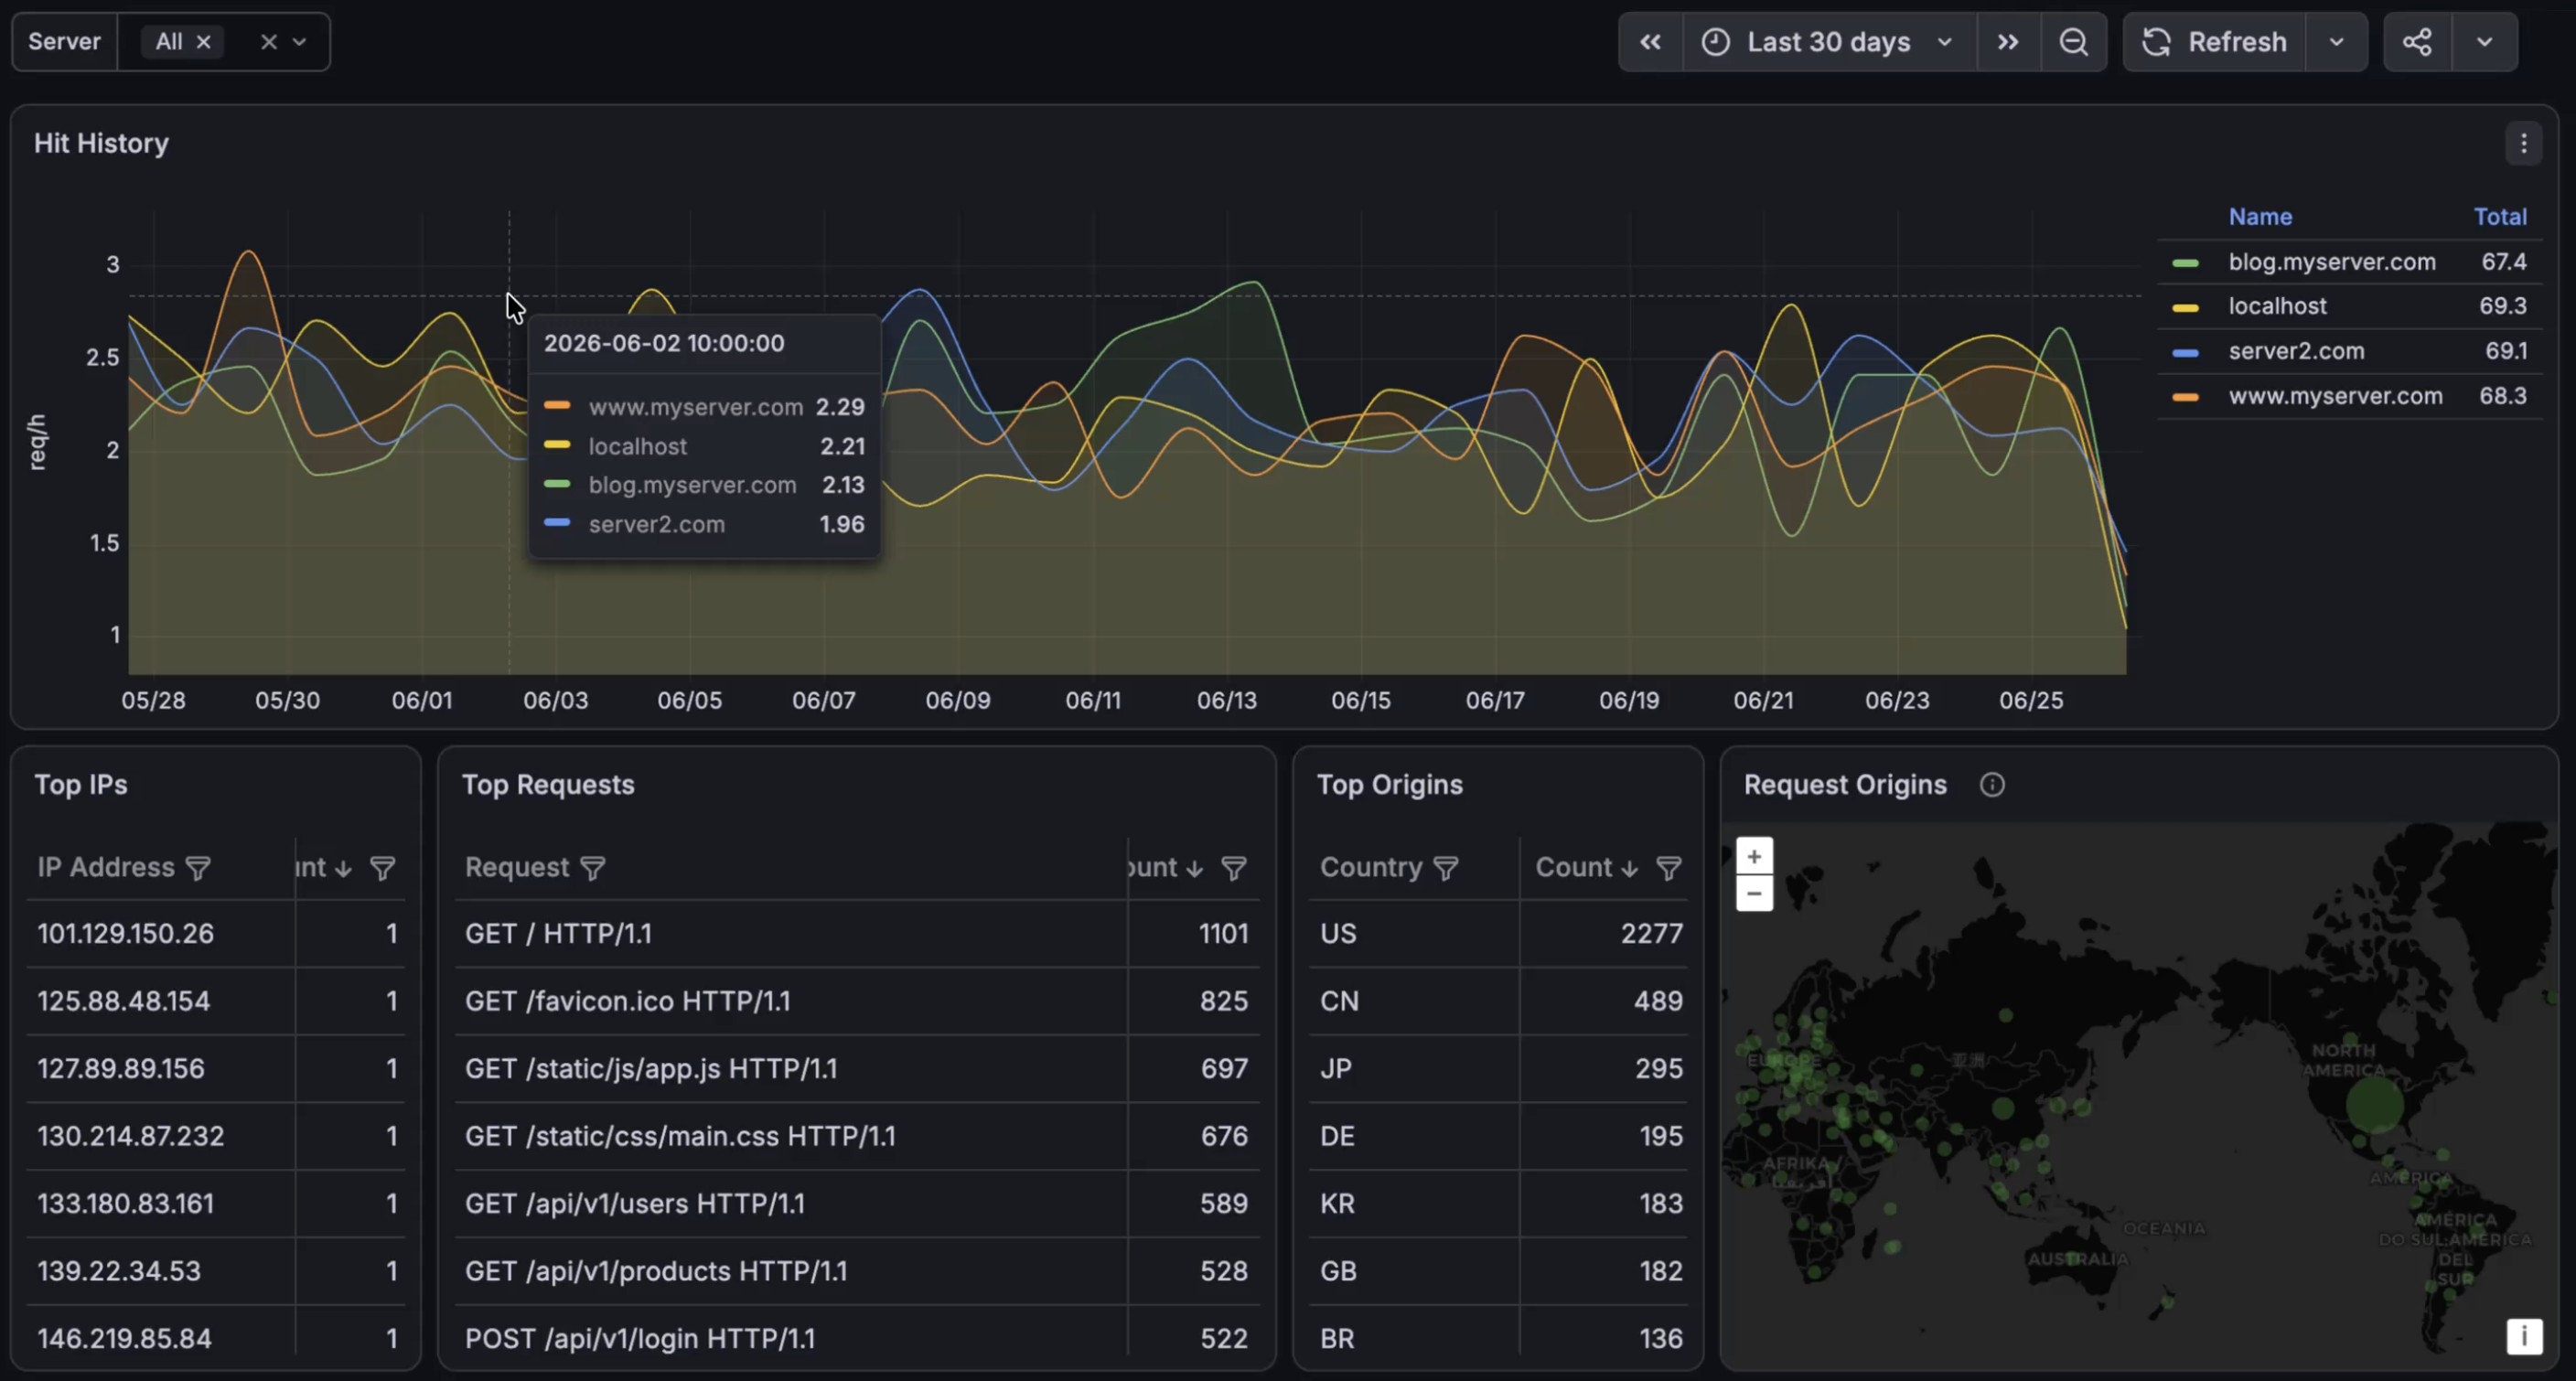
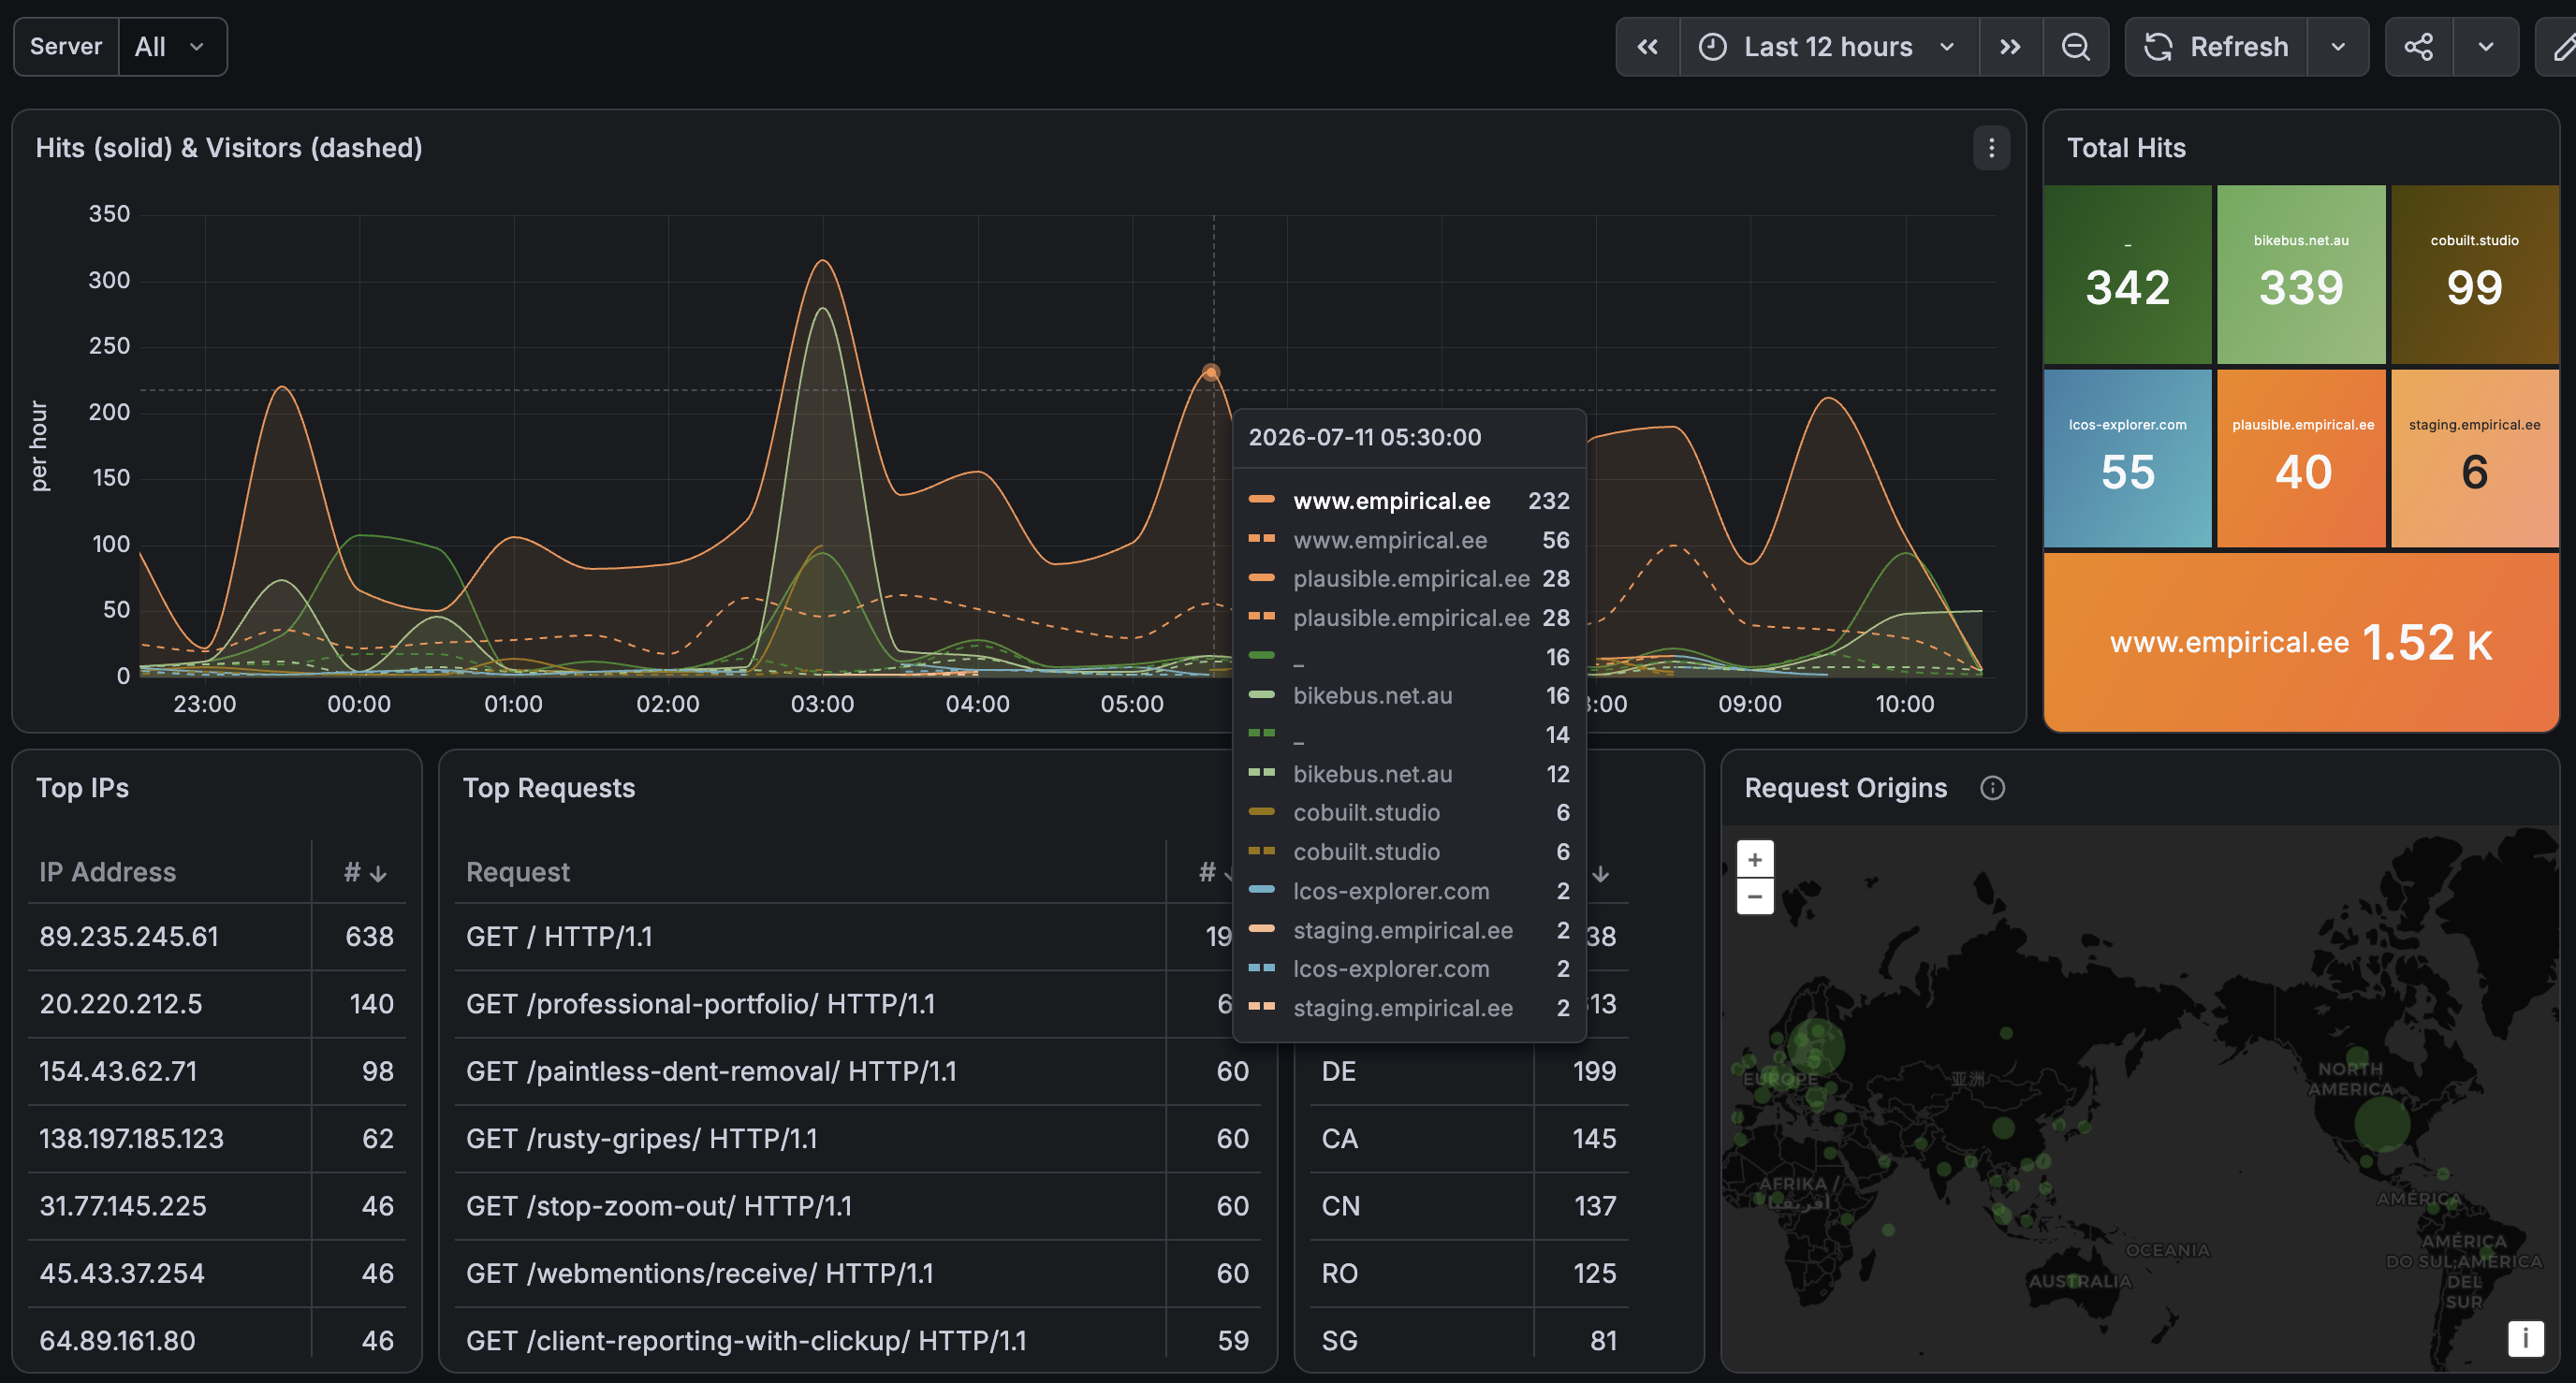
Update screenshot
And tidy up some prose.

diff --git a/README.md b/README.md
@@ -13,7 +13,7 @@
 	- Out of the box, `alv` expects logs in the [`vhost_combined`](https://gorbe.io/posts/nginx/logging/#vhost-combined) format, and will categorise logs by their virtual host. Adjusting to your preferred log format is straightforward.
 - Docker installed on the server, with the Compose plugin.
 - A MaxMind account to download the [GeoLite2-City](https://dev.maxmind.com/geoip/geolite2-free-geolocation-data) database for data geolocation.
-- A minimum of 1GB of RAM available.
+- At least 1GB of RAM available.
 
 ## Usage
 
@@ -21,13 +21,15 @@
 
 1. getting the necessary files on to the server,
 1. (optional) ingesting historical logs, and
-1. bringing up the system (or reloading after an update).
+1. bringing up the live system (or reloading it after an update).
 
 Alternatively, `alv` can be run **manually**, directly from the source folder. The [deploy workflow](.github/workflows/deploy.yml) is still the best place to learn how to perform the three steps above. The GitHub secrets and initial `rsync` will be unnecessary.
 
 A **test environment** is also available to evaluate the system before deployment and is good place to start. Skip to the [Testing section](#testing) for further details.
 
 ### Automatic Deployment
+
+Start by forking the project so you have your own copy to run GitHub Actions on.
 
 The deploy workflow `rsync`s the repo to `/opt/alv` on your server, downloads a fresh GeoLite2 database to geolocate the access data, and brings up the system on the server.
 
@@ -83,9 +85,9 @@ To seed the log database with logs from files that have already been rotated, ru
 gh workflow run deploy.yml -f ingest_history=true
 ```
 
-The `workflow run` command only triggers the workflow. While `gh run watch` can be used to view the output, the website is a much better interface. Open the URL that the `workflow run` command provides to see the workflow result.
+The `workflow run` command only triggers the workflow. While `gh run watch` can be used to view the progress, the website is a much better interface. Open the URL that the `workflow run` command provides to see the workflow result.
 
-Just like a normal deployment, this syncs files and downloads the GeoLite2 database. It then concatenates rotated access logs it finds on the server into a historical file, and then brings up the system to ingest it instead of the live access log.
+Just like a normal deployment, the `ingest_history` workflow syncs files and downloads the GeoLite2 database. It then concatenates rotated access logs it finds on the server into a historical file, and then brings up the system to ingest that file instead of the live access log.
 
 There's no great way to detect the import has finished, so this is a good opportunity to manually look around to see if everything is in order. Verify the three `alv` containers are up and running:
 
@@ -94,8 +96,7 @@ There's no great way to detect the import has finished, so this is a good opport
 docker ps
 ```
 
-
-You can poll the line count ingested by VictoriaLogs with something like this, and wait for the count to settle:
+And poll the line count ingested by VictoriaLogs with something like this, waiting for the count to settle:
 
 ```sh
 # Must be run on the server